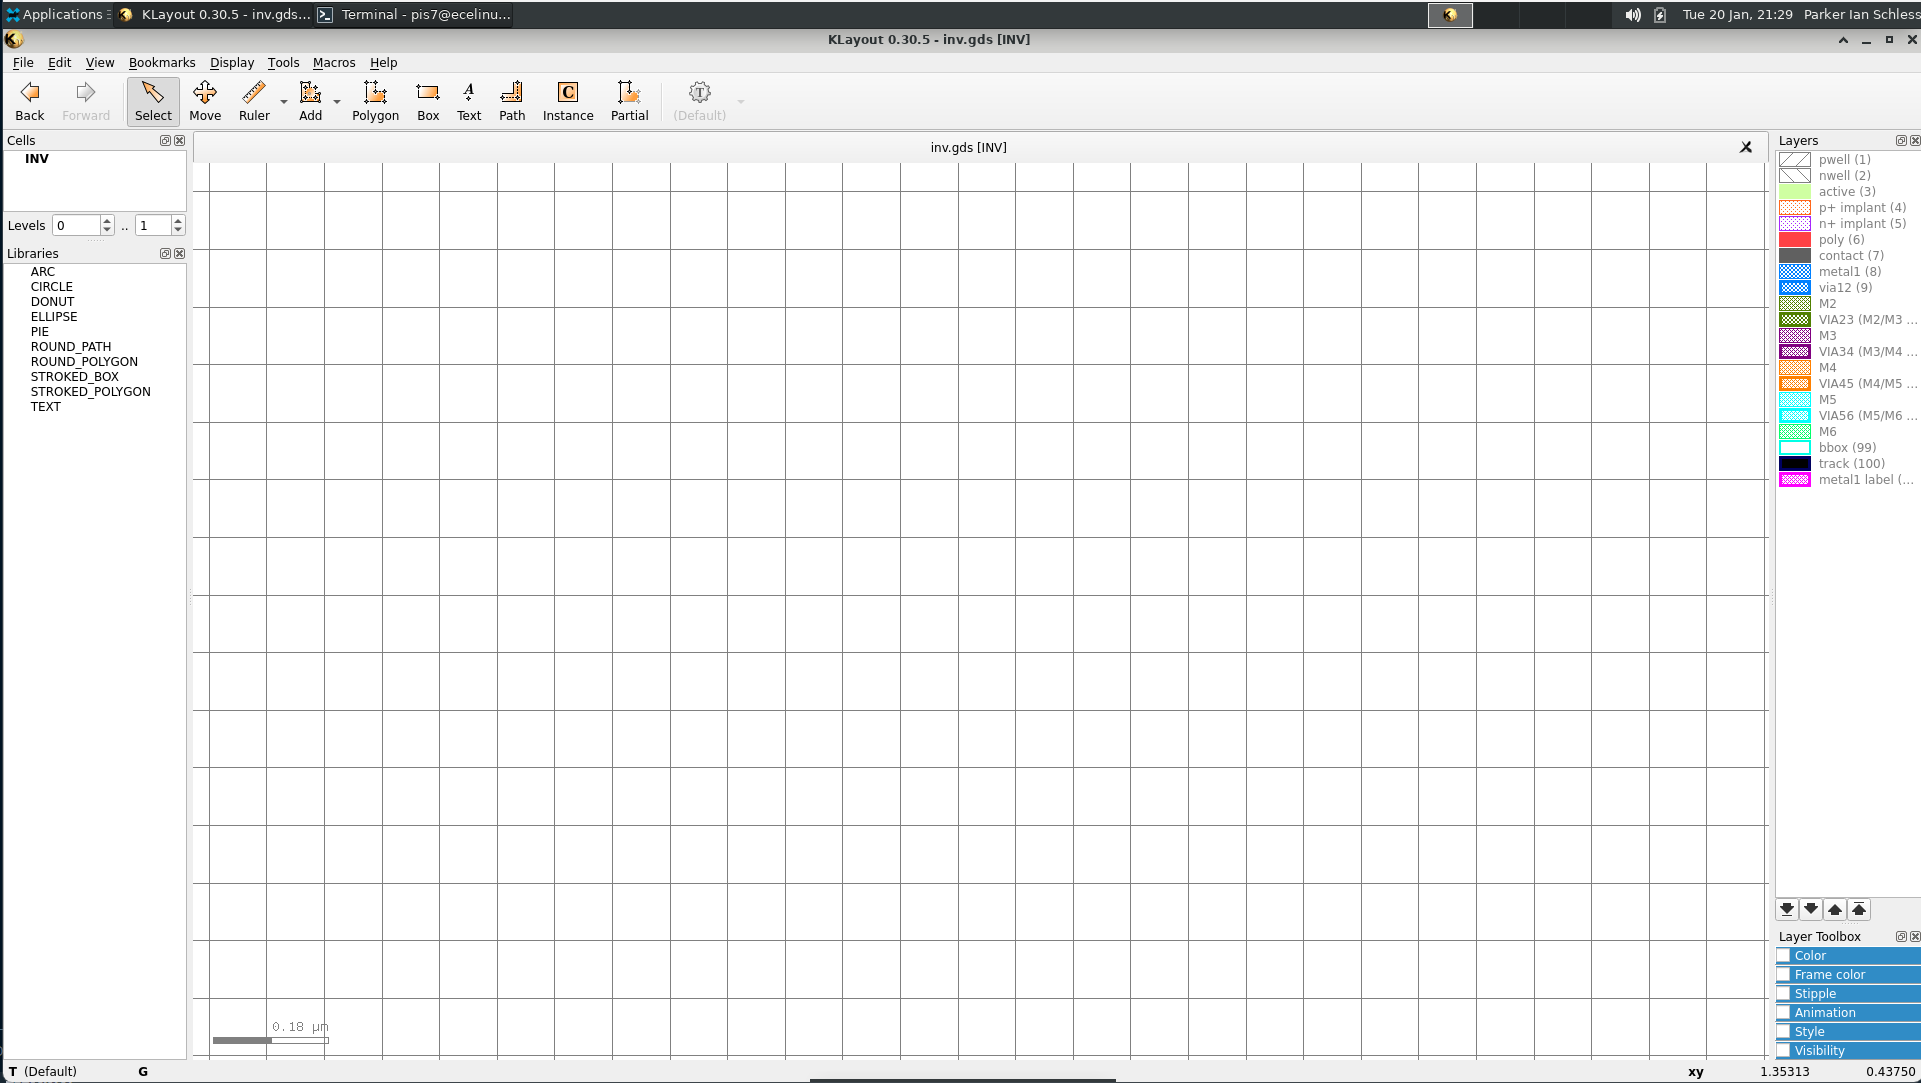
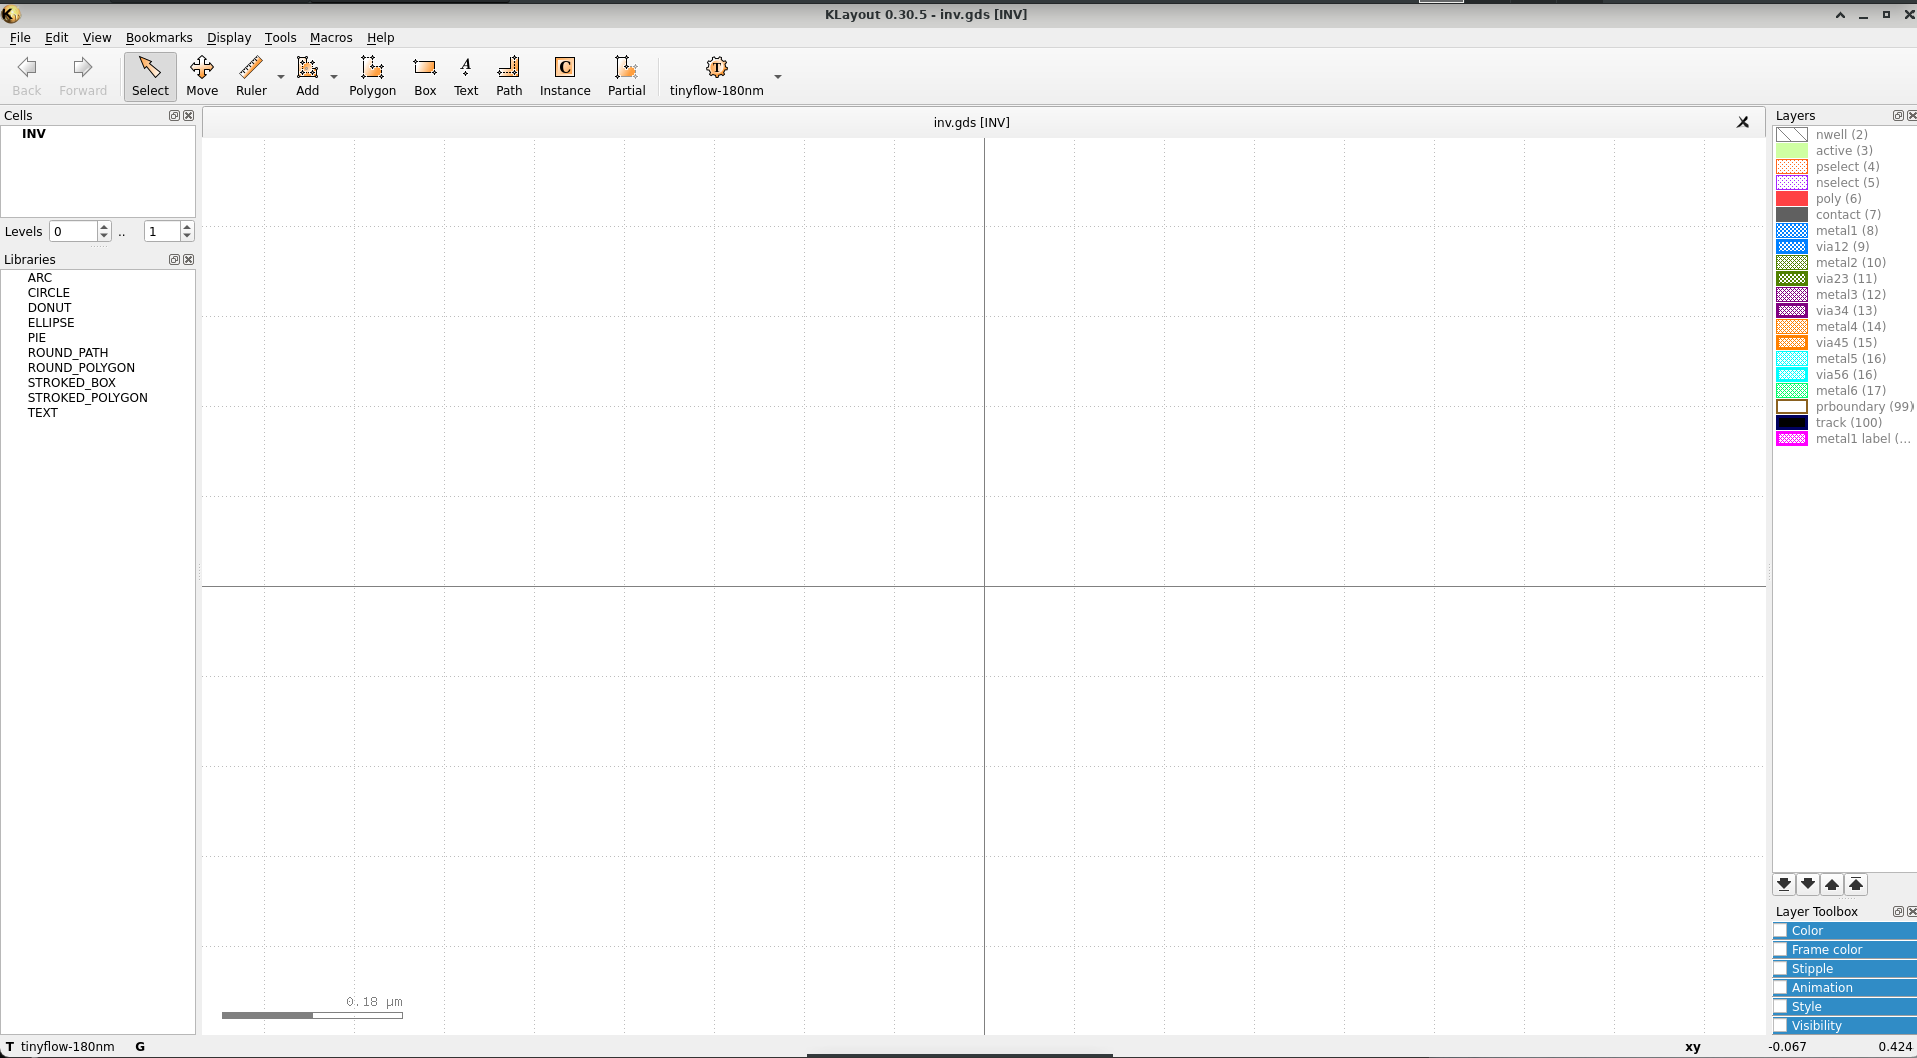
update lab1 handout for new pdk

diff --git a/docs/ece6745-lab01-full-custom-inv.md b/docs/ece6745-lab01-full-custom-inv.md
@@ -32,19 +32,23 @@ Take a minute to look through the included files:
 .
 └── lab01/
     ├── buf/
-    │   ├── buf-characterize.sp (buffer characterization script template - TODO FOR YOU)
-    │   ├── buf.gds (blank buffer layout file - TODO FOR YOU)
-    │   └── buf.sp (reference buffer spice file template - TODO FOR YOU)
+    │   ├── buf-characterize.sp (inverter characterization script template - TODO FOR YOU)
+    │   ├── buf.gds (blank inverter layout file - TODO FOR YOU)
+    │   └── buf.sp (reference inverter spice file template - TODO FOR YOU)
     ├── inv/
     │   ├── inv-characterize.sp (inverter characterization script template - TODO FOR YOU)
     │   ├── inv.gds (blank inverter layout file - TODO FOR YOU)
     │   └── inv.sp (reference inverter spice file template - TODO FOR YOU)
     └── pdk/
+        ├── d25/
+        │   └── tinyflow-180nm.lyd25 (script for viewing your layout in a more 3-dimensional way)
+        ├── drc/
+        │   └── tinyflow-180nm.lydrc (DRC script for ensuring all design rules are followed for your layout)
+        ├── lvs/
+        │   └── tinyflow-180nm.lylvs (LVS script for ensuring your layout matches the reference spice schematic)
         ├── klayoutrc (setup file for KLayout with all necessary settings - sourced automatically by setup script)
-        ├── tiny180.lyd25 (script for viewing your layout in a more 3-dimensional way)
-        ├── tiny180.lydrc (DRC script for ensuring all design rules are followed for your layout)
-        ├── tiny180.lylvs (LVS script for ensuring your layout matches the reference spice schematic)
-        └── tiny180.lyp (layer information for the tiny180 process)
+        ├── tinyflow-180nm.lyp (layer information for the tinyflow-180nm process)
+        └── tinyflow-180nm.lyt (technology manager information for the tinyflow-180nm process)
 ```
 
 1. KLayout Introduction
@@ -56,21 +60,58 @@ design-rules checking, layout vs. schematic checking, and RC extraction among
 other features. In this lab, we will be using all of these features so that you
 can become familiar with making your own custom circuits!
 
-First, open KLayout in edit mode (`-e`) with the provided layer properties file
-(`-l pdk/tiny180.lyp`) and the blank canvas for the inverter your are going to
-draw (`inv/inv.gds`)
+KLayout can be opened either on the ECELinux server via remote desktop, or
+locally on the Upson workstation/your laptop (you will need to install the
+[latest KLayout version](https://www.klayout.de/build.html) for your OS).
+
+There will be a pop-up the first time you open KLayout asking about whether to
+use full-hierarchy mode - agree to this setting and select "Do not show again"
+if present.
+
+**Option 1: Open KLayout on ECELinux (RECOMMENDED)**
+
+To open on the ECELinux server, first open KLayout in edit mode (`-e`) with the
+blank canvas for the inverter your are going to draw (`inv/inv.gds`)
 
 ```bash
 % cd $TOPDIR
-% klayout -e -l pdk/tiny180.lyp inv/inv.gds
+% klayout -e inv/inv.gds
 ```
 
-A new GUI window should open in your remote desktop window:
+**Option 2: Open KLayout on Upson Workstation/Your Laptop**
+
+Note that when using this option, you must push your layout changes to the repo
+and pull on the ECELinux side so that you can run the Ngspice simulation on the
+server in step 5.
+
+To open on the Upson workstation/your laptop, first clone the repo as above on
+your machine. Navigate to the install directory for KLayout (typically
+`C:\Users\<USERNMAE>\KLayout\` for Windows and `~/.klayout/` on Mac/Linux) and
+replace the existing `klayoutrc` file with the file provided in the cloned repo
+(`pdk/klayoutrc`).
+
+Now open the "KLayout (Editor)" application. Go to Tools -> Manage Technologies
+(select "Do not show again" for the pop-up):
+
+![](img/lab01-klayout-open-tech-mngr.png)
+
+Right-click on the white box under "Technologies" and select "Import
+Technology":
+
+![](img/lab01-klayout-import-tech.png)
+
+Navigate to the cloned lab01 repo and open the `pdk/tinyflow-180nm.lyt` file,
+then select OK in the bottom-right corner. Now select the dropdown for the Tech
+button in the top toolbar of the main KLayout window (to the right of the
+Partial button), and select "tinyflow-180nm".
+
+![](img/lab01-klayout-select-tech.png)
+
+**For both Option 1 and Option 2 (continue here)**
+
+The KLayout GUI should now look like this:
 
 ![](img/lab01-klayout-blank.png)
-
-There will be a pop-up the first time you open KLayout asking about whether to
-use full-hierarchy mode - agree to this setting.
 
 Take a minute to become familiar with the user interface (some items are omitted
 as they are not used for our class):
@@ -89,16 +130,15 @@ as they are not used for our class):
    it and other layers - **this is very useful accurately and quickly editing
    layouts!**
 
-If the `klayoutrc` file is properly sourced by the setup script, you should be
-able to scroll in on the main layout window and see a grid of lines (as in the
-image above), this represents the **lambda grid**, where the side length of each
-such box is 1 lambda (0.09um in our case). This represents the minimum unit on
-which you can draw a feature. If you scroll out, the lines should disappear and
-a grid of dots should be present instead. **When drawing a feature with a
-specific dimension of lambda, be sure that you are counting on the boxes
-contained within the lines, not the dots!** If this is not the case for you,
-copy the `pdk/klayoutrc` file to `~/.klayout/klayoutrc`, making the directory if
-it does not already exist, and reopening KLayout.
+You should be able to scroll in on the main layout window and see a grid of
+dotted lines (as in the image above), this represents the **lambda grid**, where
+the side length of each such box is 1 lambda (0.09um in our case). This
+represents the minimum unit on which you can draw a feature. If you scroll out,
+the lines should disappear and a grid of interspersed dots only on the
+intersection of these boxes should be present instead. **When drawing a feature
+with a specific dimension of lambda, be sure that you are counting on the boxes
+contained within the dotted lines, not the interspered dots on the
+intersections!** The intersection of the two solid lines represents the origin.
 
 2. Laying Out and Performing DRC on an PMOS
 --------------------------------------------------------------------------
@@ -112,7 +152,7 @@ test their design for a wide variety of parameters, including modifying this
 width to achieve their design goals of power, performance, or area.
 
 Take some time now to draw the following inverter **as shown exactly** in your
-`inv.gds` file. To draw a new feature, select the layer from the Layers window,
+`inv/inv.gds` file. To draw a new feature, select the layer from the Layers window,
 and then click the Box tool from the upper toolbar, click to set one corner, and
 then click again to set the opposite corner. **Notice how the width of the
 transistor is 8-lambda (boxes) as we mentioned above, and the gate width is
@@ -131,15 +171,17 @@ to Tools -> DRC -> Edit DRC Script.
 
 Click the white import icon in the window the pops up
 ![](img/lab01-klayout-drc-import.png) in the top-left corner, and then select
-the `pdk/tiny180.lydrc` in the file browser. Take a minute to browse the DRC
-file and see how the code (written in Ruby) matches up to the rules in the DRM.
-When you are ready to run it, click the green play button with the exclamation
-mark through it ![](img/lab01-klayout-drc-run.png) in the top toolbar. If it
-asks you about saving a macro, click Yes. A new window should open with the DRC
-results, the left side shows all the performed DRC checks, with the numbers
-corresponding to the associated rules in the DRM. If your design is DRC-clean,
-then all the numbers should be green. If you see any red ones, cross-reference
-the rule number with the DRM, and edit your layout to fix the DRC *violation*.
+the `pdk/drc/tinyflow-180nm.lydrc` in the file browser. Double-click on the file
+that has been added to the left-side file browser to open it in the viewer. Take
+a minute to browse the DRC file and see how the code (written in Ruby) matches
+up to the rules in the DRM. When you are ready to run it, click the green play
+button with the exclamation mark through it ![](img/lab01-klayout-drc-run.png)
+in the top toolbar. If it asks you about saving a macro, click Yes. A new window
+should open with the DRC results, the left side shows all the performed DRC
+checks, with the numbers corresponding to the associated rules in the DRM. If
+your design is DRC-clean, then all the numbers should be green. If you see any
+red ones, cross-reference the rule number with the DRM, and edit your layout to
+fix the DRC *violation*.
 
 ![alt text](img/lab01-klayout-drc-browser.png)
 
@@ -173,7 +215,7 @@ DO CTRL+S AS IT BREAKS THE VIEW!**
 
 You can also view your inverter in a semi-three-dimensional view called 2.5D. To
 do this, go to Tools -> 2.5d View -> Edit 2.5d Script (similarly to DRC). Import
-the `pdk/tiny180.lyd25` into KLayout using the white button again,
+the `pdk/d25/tinyflow-180nm.lyd25` into KLayout using the white button again,
 double-clicking the new file in the left-side file window to ensure the script
 is open in the editor. Click the green play button with exclamation mark to run
 the script. A new window should pop up with a 2.5D viewer which you can use the
@@ -217,11 +259,12 @@ Make sure your desired cell to check via LVS is active in the viewer (important
 if multiple such cells are in the same layout file as will happen in later
 projects and labs). Open the LVS tool in your KLayout window similarly to DRC,
 but now selecting LVS from the Tools menu instead of DRC. Select the white
-import button again and then load in the `pdk/tiny180.lylvs` file. Double-click
-the imported lylvs file so it is visible in the viewer. Take a minute to browse
-the contents of the file and see how we first extract the schematic (to
-`inv/inv-rcx.sp`) and then perform the actual comparison. Press the green play
-button with the exclamation mark through it to run the LVS script.
+import button again and then load in the `pdk/lvs/tinyflow-180nm.lylvs` file.
+Double-click the imported lylvs file so it is visible in the viewer. Take a
+minute to browse the contents of the file and see how we first extract the
+schematic (to `inv/inv-rcx.sp`) and then perform the actual comparison. Press
+the green play button with the exclamation mark through it to run the LVS
+script.
 
 After running the script, and if LVS passes, you should see all green in the
 window that pops up:
